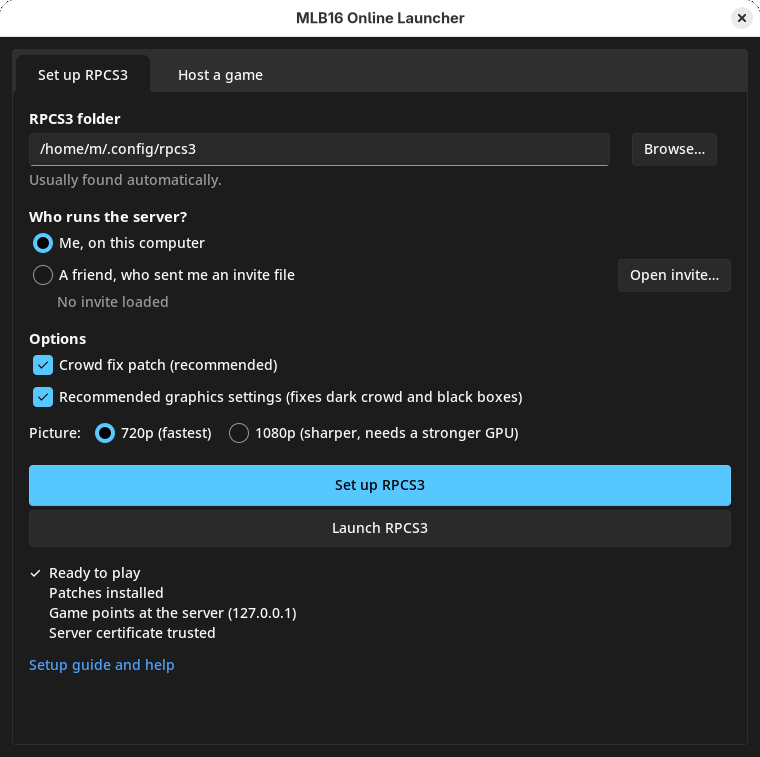
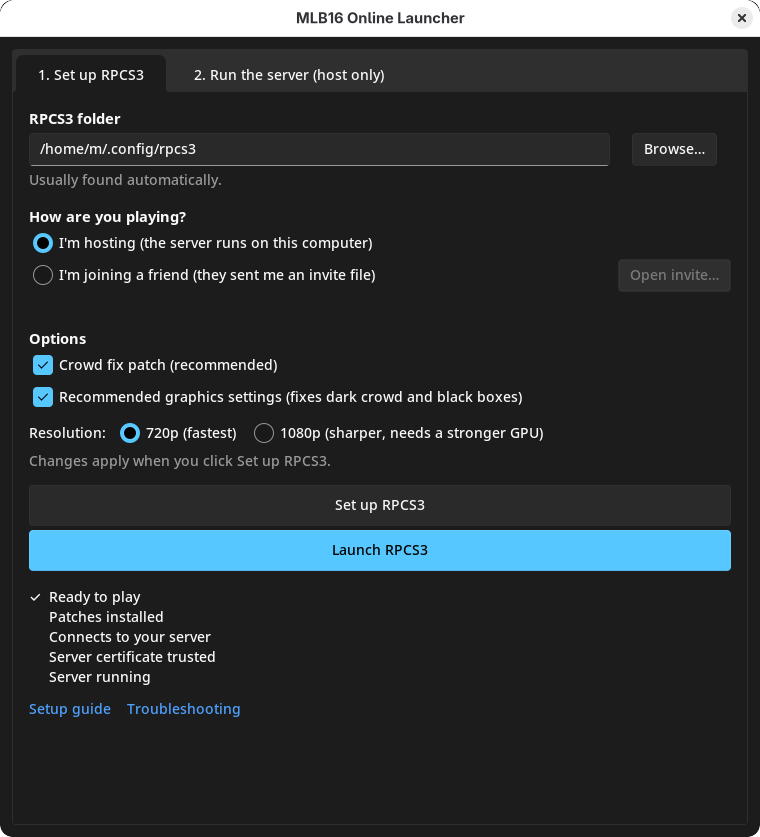
Launcher v0.3: clearer setup and hosting
- Setup: "How are you playing?" (hosting/joining), Open invite only when joining, Resolution, changes apply on Set up
- The host's checklist shows whether the server is running; Launch becomes the main button once set up
- Next steps after setup (Game Rooms, Quick Menu SELECT); Setup guide and Troubleshooting links; plainer errors
- Server tab: numbered steps, green Running indicator, "Where is your friend?" picker with a Tailscale hint
- Popup after saving an invite; confirm before quitting with the server running; Open logs folder link
- Friendlier activity log (Server ready, placeholder, port-443 notice hidden)
- README steps and screenshots updated

diff --git a/app/mlb16_online.py b/app/mlb16_online.py
@@ -63,7 +63,9 @@ def friendly(line):
     try:
         d = json.loads(line)
     except ValueError:   # the server cuts long JSON lines short; anything else (errors, tracebacks) is shown
-        return None if line.startswith('{') else line.rstrip()
+        if line.startswith('listening on'):
+            return 'Server ready. Waiting for players…'
+        return None if line.startswith(('{', 'port 443 skipped')) else line.rstrip()   # optional telemetry
     if not isinstance(d, dict):
         return line.rstrip()
     e, t = d.get('event'), d.get('t', '')
@@ -78,6 +80,12 @@ def friendly(line):
                      'Has that player run setup with your invite?'),
     }.get(e)
     return f'{t}  {text}' if text else None
+
+
+def link(parent, text, url):
+    lbl = ttk.Label(parent, text=text, style='Link.TLabel', cursor='hand2')
+    lbl.bind('<Button-1>', lambda e: webbrowser.open(url))
+    return lbl
 
 
 class App(tk.Tk):
@@ -111,15 +119,16 @@ class App(tk.Tk):
         style = ttk.Style(self)
         style.configure('Hint.TLabel', foreground='#9a9a9a')   # fixed colours: "gray" differs between platforms
         style.configure('Link.TLabel', foreground='#4ea1ff')
+        style.configure('Running.TLabel', foreground='#3fb950')
         self.cfg = Settings()
         self.server = None
         self.lines = queue.Queue()
 
         nb = ttk.Notebook(self)
         nb.pack(fill='both', expand=True, padx=12, pady=12)
-        nb.add(self.setup_tab(nb), text='  Set up RPCS3  ')
-        nb.add(self.host_tab(nb), text='  Host a game  ')
-        nb.bind('<<NotebookTabChanged>>', lambda e: self.show_addresses())   # picks up Tailscale started later
+        nb.add(self.setup_tab(nb), text='  1. Set up RPCS3  ')
+        nb.add(self.host_tab(nb), text='  2. Run the server (host only)  ')
+        nb.bind('<<NotebookTabChanged>>', lambda e: (self.show_addresses(), self.refresh()))   # Tailscale started later
         self.protocol('WM_DELETE_WINDOW', self.quit_app)
         self.refresh()
         self.after(200, self.pump)
@@ -138,14 +147,15 @@ class App(tk.Tk):
         hint = ('The folder with rpcs3.exe.' if sys.platform == 'win32' else 'Usually found automatically.')
         ttk.Label(f, text=hint, style='Hint.TLabel').grid(row=2, column=0, columnspan=3, sticky='w')
 
-        ttk.Label(f, text='Who runs the server?', font=('', 11, 'bold')).grid(row=3, column=0, columnspan=3,
+        ttk.Label(f, text='How are you playing?', font=('', 11, 'bold')).grid(row=3, column=0, columnspan=3,
                                                                                 sticky='w', pady=(16, 0))
         self.mode = tk.StringVar(value=self.cfg['mode'])
-        ttk.Radiobutton(f, text='Me, on this computer', variable=self.mode, value='host',
+        ttk.Radiobutton(f, text="I'm hosting (the server runs on this computer)", variable=self.mode, value='host',
                         command=self.refresh).grid(row=4, column=0, columnspan=3, sticky='w', pady=2)
-        ttk.Radiobutton(f, text='A friend, who sent me an invite file', variable=self.mode, value='join',
+        ttk.Radiobutton(f, text="I'm joining a friend (they sent me an invite file)", variable=self.mode, value='join',
                         command=self.refresh).grid(row=5, column=0, columnspan=2, sticky='w', pady=2)
-        ttk.Button(f, text='Open invite…', command=self.open_invite).grid(row=5, column=2, padx=(8, 0))
+        self.invite_btn = ttk.Button(f, text='Open invite…', command=self.open_invite)
+        self.invite_btn.grid(row=5, column=2, padx=(8, 0))
         self.invite_label = ttk.Label(f, style='Hint.TLabel')
         self.invite_label.grid(row=6, column=0, columnspan=3, sticky='w', padx=(28, 0))
 
@@ -160,21 +170,24 @@ class App(tk.Tk):
         pic = ttk.Frame(f)
         pic.grid(row=10, column=0, columnspan=3, sticky='w', pady=(6, 0))
         self.picture = tk.StringVar(value=self.cfg['picture'])
-        ttk.Label(pic, text='Picture:').pack(side='left')
+        ttk.Label(pic, text='Resolution:').pack(side='left')
         ttk.Radiobutton(pic, text='720p (fastest)', variable=self.picture, value='720p').pack(side='left', padx=(10, 0))
         ttk.Radiobutton(pic, text='1080p (sharper, needs a stronger GPU)', variable=self.picture,
                         value='1080p').pack(side='left', padx=(10, 0))
+        ttk.Label(f, text='Changes apply when you click Set up RPCS3.', style='Hint.TLabel').grid(
+            row=11, column=0, columnspan=3, sticky='w', pady=(4, 0))
 
-        ttk.Button(f, text='Set up RPCS3', style='Accent.TButton', command=self.do_setup).grid(
-            row=11, column=0, columnspan=3, sticky='ew', pady=(18, 4), ipady=4)
-        ttk.Button(f, text='Launch RPCS3', command=self.launch_rpcs3).grid(
-            row=12, column=0, columnspan=3, sticky='ew', ipady=2)
+        self.setup_btn = ttk.Button(f, text='Set up RPCS3', command=self.do_setup)
+        self.setup_btn.grid(row=12, column=0, columnspan=3, sticky='ew', pady=(14, 4), ipady=4)
+        self.launch_btn = ttk.Button(f, text='Launch RPCS3', command=self.launch_rpcs3)
+        self.launch_btn.grid(row=13, column=0, columnspan=3, sticky='ew', ipady=4)
 
         self.status = ttk.Label(f, justify='left')
-        self.status.grid(row=13, column=0, columnspan=3, sticky='w', pady=(16, 0))
-        link = ttk.Label(f, text='Setup guide and help', style='Link.TLabel', cursor='hand2')
-        link.grid(row=14, column=0, columnspan=3, sticky='w', pady=(12, 0))
-        link.bind('<Button-1>', lambda e: webbrowser.open(REPO))
+        self.status.grid(row=14, column=0, columnspan=3, sticky='w', pady=(16, 0))
+        links = ttk.Frame(f)
+        links.grid(row=15, column=0, columnspan=3, sticky='w', pady=(12, 0))
+        link(links, 'Setup guide', REPO + '#setup').pack(side='left')
+        link(links, 'Troubleshooting', REPO + '#troubleshooting').pack(side='left', padx=(16, 0))
         return f
 
     def pick_rpcs3(self):
@@ -255,97 +268,128 @@ class App(tk.Tk):
             s.install_game_config(r, ip, graphics=self.graphics.get(), picture=self.picture.get())
             s.install_ca(r, ca)
         except OSError as e:
-            messagebox.showerror('Setup failed', f'{e}\n\nIs RPCS3 closed, and is this the right folder?')
+            messagebox.showerror('Setup failed', "Couldn't change the files in your RPCS3 folder. Make sure RPCS3 is "
+                                 f'closed and the folder is right, then try again.\n\nDetails: {e}')
             return
         self.cfg.update(rpcs3_dir=str(r.root), mode=self.mode.get(), crowd_fix=self.crowd.get(),
                         graphics=self.graphics.get(), picture=self.picture.get())
         self.cfg.save()
         self.refresh()
-        messagebox.showinfo('Done', 'RPCS3 is set up. Start the game, then go to Online → Game Rooms.'
-                            + ('\n\nStart the server in the "Host a game" tab first.' if ip == '127.0.0.1' else ''))
+        messagebox.showinfo('Done', 'RPCS3 is set up.\n\n'
+                            + ('Next: start the server in tab 2, then ' if ip == '127.0.0.1' else 'Next: ')
+                            + 'click Launch RPCS3, boot the game and go to Online → Game Rooms → Revival Room.\n\n'
+                            'To accept a challenge, open the Quick Menu (SELECT).')
+
+    def server_running(self):
+        return bool(self.server and self.server.poll() is None)
 
     def refresh(self):
-        if self.cfg.get('invite_host'):
+        hosting = self.mode.get() == 'host'
+        self.invite_btn.config(state='disabled' if hosting else 'normal')
+        if hosting:
+            self.invite_label.config(text='')
+        elif self.cfg.get('invite_host'):
             self.invite_label.config(text=f'Invite loaded: server at {self.cfg["invite_host"]}')
         else:
             self.invite_label.config(text='No invite loaded')
+        ready = False
         r = s.Rpcs3(self.rpcs3_dir.get().strip()) if self.rpcs3_dir.get().strip() else None
         if not r or r.problem():
-            self.status.config(text='Pick your RPCS3 folder.' if not r else r.problem())
-            return
-        want_ip, want_ca = self.target()
-        ca = s.installed_ca(r)
-        server = s.game_config_server(r)
-        rows = [(s.patches_status(r), 'Patches installed', 'Patches'),
-                (server is not None and server == want_ip, f'Game points at the server ({server})', 'Server address'),
-                (ca is not None and isinstance(want_ca, bytes) and ca == want_ca, 'Server certificate trusted',
-                 'Server certificate')]
-        if not any(ok for ok, _, _ in rows):
-            text = 'Not set up yet: click "Set up RPCS3".'
-        elif all(ok for ok, _, _ in rows):
-            text = '✓  Ready to play\n' + '\n'.join('     ' + done for _, done, _ in rows)
-        else:   # e.g. a new invite was opened: say what the next Set up will change
-            text = 'Click "Set up RPCS3" to finish:\n' + '\n'.join(
-                ('✓  ' + done) if ok else ('○  ' + todo + ': needs setup') for ok, done, todo in rows)
+            text = 'Pick your RPCS3 folder.' if not r else r.problem()
+        else:
+            want_ip, want_ca = self.target()
+            ca = s.installed_ca(r)
+            server = s.game_config_server(r)
+            where = 'your server' if server == '127.0.0.1' else server
+            rows = [(s.patches_status(r), 'Patches installed', 'Patches'),
+                    (server is not None and server == want_ip, f'Connects to {where}', 'Server address'),
+                    (ca is not None and isinstance(want_ca, bytes) and ca == want_ca, 'Server certificate trusted',
+                     'Server certificate')]
+            if not any(ok for ok, _, _ in rows):
+                text = 'Not set up yet: click "Set up RPCS3".'
+            elif all(ok for ok, _, _ in rows):
+                ready = True
+                text = '✓  Ready to play\n' + '\n'.join('     ' + done for _, done, _ in rows)
+                if hosting:   # the most common first-session failure: everything set up but no server
+                    text += ('\n     Server running' if self.server_running() else
+                             '\n○  Server not running: start it in tab 2 before you launch the game')
+            else:   # e.g. a new invite was opened: say what the next Set up will change
+                text = 'Click "Set up RPCS3" to finish:\n' + '\n'.join(
+                    ('✓  ' + done) if ok else ('○  ' + todo + ': needs setup') for ok, done, todo in rows)
         self.status.config(text=text)
+        # point at the next step: Set up until it's done, then Launch
+        self.setup_btn.config(style='TButton' if ready else 'Accent.TButton')
+        self.launch_btn.config(style='Accent.TButton' if ready else 'TButton')
 
     # ------------------------------------------------------------ host tab
 
     def host_tab(self, nb):
         f = ttk.Frame(nb, padding=16)
         f.columnconfigure(0, weight=1)
-        f.rowconfigure(6, weight=1)
+        f.rowconfigure(9, weight=1)
+        h = ('', 11, 'bold')
+        ttk.Label(f, text='1. Start the server', font=h).grid(row=0, column=0, sticky='w')
         bar = ttk.Frame(f)
-        bar.grid(row=0, column=0, sticky='ew')
+        bar.grid(row=1, column=0, sticky='ew', pady=(6, 0))
         self.start_btn = ttk.Button(bar, text='Start server', style='Accent.TButton', command=self.start_server)
         self.start_btn.pack(side='left')
         self.stop_btn = ttk.Button(bar, text='Stop', command=self.stop_server, state='disabled')
         self.stop_btn.pack(side='left', padx=8)
-        self.server_state = ttk.Label(bar, text='Stopped')
+        self.server_state = ttk.Label(bar, text='○  Stopped', style='Hint.TLabel')
         self.server_state.pack(side='left', padx=8)
 
-        ttk.Label(f, text='Your addresses', font=('', 11, 'bold')).grid(row=1, column=0, sticky='w', pady=(16, 0))
-        self.addr = ttk.Label(f, justify='left')
-        self.addr.grid(row=2, column=0, sticky='w')
+        ttk.Label(f, text='2. Send your friend an invite', font=h).grid(row=2, column=0, sticky='w', pady=(18, 0))
+        ttk.Label(f, text='Where is your friend?').grid(row=3, column=0, sticky='w', pady=(6, 0))
+        self.where = tk.StringVar()
+        self.where_btns = ttk.Frame(f)
+        self.where_btns.grid(row=4, column=0, sticky='w')
         inv = ttk.Frame(f)
-        inv.grid(row=3, column=0, sticky='w', pady=(8, 0))
-        self.invite_ip = ttk.Combobox(inv, width=28, state='readonly')
-        self.invite_ip.pack(side='left')
-        ttk.Button(inv, text='Save invite file…', command=self.save_invite).pack(side='left', padx=8)
-        ttk.Label(f, text='Send the invite file to your friend. It holds your address and your server certificate '
-                          '(never your private keys).', style='Hint.TLabel', wraplength=580, justify='left').grid(
-            row=4, column=0, sticky='w', pady=(4, 0))
+        inv.grid(row=5, column=0, sticky='w', pady=(8, 0))
+        ttk.Button(inv, text='Save invite file…', command=self.save_invite).pack(side='left')
+        self.where_hint = ttk.Label(f, style='Hint.TLabel', wraplength=580, justify='left')
+        self.where_hint.grid(row=6, column=0, sticky='w', pady=(4, 0))
+        ttk.Label(f, text='The invite holds your address and your server certificate (never your private keys).',
+                  style='Hint.TLabel', wraplength=580, justify='left').grid(row=7, column=0, sticky='w')
 
-        ttk.Label(f, text='Server activity', font=('', 11, 'bold')).grid(row=5, column=0, sticky='w', pady=(16, 0))
-        self.log = tk.Text(f, height=12, wrap='word', state='disabled', relief='flat', borderwidth=0,
+        ttk.Label(f, text='3. Server activity', font=h).grid(row=8, column=0, sticky='w', pady=(18, 0))
+        self.log = tk.Text(f, height=10, wrap='word', state='disabled', relief='flat', borderwidth=0,
                            background='#0b0b0b', foreground='#d8d8d8', padx=10, pady=8)   # terminal-like
-        self.log.grid(row=6, column=0, sticky='nsew', pady=(4, 0))
-        ttk.Label(f, text=f'If your firewall asks, allow network access. Logs and certificates: {s.data_dir()}',
-                  style='Hint.TLabel', wraplength=580, justify='left').grid(row=7, column=0, sticky='w', pady=(8, 0))
+        self.log.grid(row=9, column=0, sticky='nsew', pady=(4, 0))
+        self.log.tag_configure('placeholder', foreground='#6e6e6e')
+        self.write_log('Nothing yet. Start the server and activity shows up here.', 'placeholder')
+        foot = ttk.Frame(f)
+        foot.grid(row=10, column=0, sticky='ew', pady=(8, 0))
+        ttk.Label(foot, text='If your firewall asks, allow network access.', style='Hint.TLabel').pack(side='left')
+        link(foot, 'Open logs folder', s.data_dir().as_uri()).pack(side='right')
         self.show_addresses()
         return f
 
     def show_addresses(self):
         lan, ts = s.lan_ip(), s.tailscale_ip()
-        rows, choices = [], []
-        if ts:
-            rows.append(f'Tailscale (over the internet): {ts}')
-            choices.append(f'{ts}  (Tailscale)')
-        if lan:
-            rows.append(f'Home network: {lan}')
-            choices.append(f'{lan}  (home network)')
-        if not ts:
-            rows.append('Tailscale not found. Install it to play with friends outside your home network.')
-        self.addr.config(text='\n'.join(rows))
-        self.invite_ip.config(values=choices)
-        if choices:
-            self.invite_ip.current(0)
+        self.ts_ip = ts
+        for w in self.where_btns.winfo_children():
+            w.destroy()
+        choices = [(lan, f'Same home network ({lan})' if lan else 'Same home network (no network found)'),
+                   (ts, f'Somewhere else, over Tailscale ({ts})' if ts else
+                    'Somewhere else: install Tailscale first (see the Setup guide)')]
+        for i, (ip, text) in enumerate(choices):
+            ttk.Radiobutton(self.where_btns, text=text, variable=self.where, value=ip or f'none{i}',   # unselectable
+                            state='normal' if ip else 'disabled',
+                            command=self.where_changed).pack(anchor='w', pady=1)
+        if self.where.get() not in (lan, ts) or not self.where.get():
+            self.where.set(ts or lan or '')
+        self.where_changed()
+
+    def where_changed(self):
+        ts = self.where.get() and self.where.get() == self.ts_ip
+        self.where_hint.config(text='Your friend needs Tailscale too, in your tailnet: invite them, or share this '
+                                    'computer with them from the Tailscale admin console.' if ts else '')
 
     def save_invite(self):
-        if not self.invite_ip.get():
-            messagebox.showerror('Invite', 'No network address found.')
+        ip = self.where.get()
+        if not ip:
+            messagebox.showerror('Invite', 'No network address found. Are you connected to a network?')
             return
-        ip = self.invite_ip.get().split()[0]
         p = filedialog.asksaveasfilename(title='Save invite', defaultextension='.mlb16invite',
                                          initialfile='mlb16-invite.mlb16invite',
                                          filetypes=[('MLB16 invite', '*.mlb16invite')])
@@ -353,6 +397,8 @@ class App(tk.Tk):
             ca = (s.ensure_host_certs() / 'ca.pem').read_bytes()
             Path(p).write_text(s.make_invite(ip, ca), encoding='utf-8')
             self.write_log(f'invite saved for {ip}: {p}')
+            messagebox.showinfo('Invite saved', f'Saved to:\n{p}\n\nSend this file to your friend (Discord, email, '
+                                'anything). They open it in their launcher with "Open invite…", then click Set up RPCS3.')
 
     def start_server(self):
         if self.server and self.server.poll() is None:
@@ -365,8 +411,9 @@ class App(tk.Tk):
         threading.Thread(target=self.read_server, args=(self.server,), daemon=True).start()
         self.start_btn.config(state='disabled')
         self.stop_btn.config(state='normal')
-        self.server_state.config(text='Running')
-        self.write_log('server starting…')
+        self.server_state.config(text='●  Running', style='Running.TLabel')
+        self.write_log('Server starting…')
+        self.refresh()
 
     def read_server(self, proc):
         for line in proc.stdout:
@@ -384,11 +431,13 @@ class App(tk.Tk):
                 line = self.lines.get_nowait()
                 if line is None:
                     code = self.server.wait() if self.server else 0
-                    self.write_log('server stopped' if self.stopping else
-                                   f'server stopped unexpectedly (exit code {code}). Is another server already running?')
+                    self.write_log('Server stopped.' if self.stopping else
+                                   'The server stopped unexpectedly. Usually another copy is already running (another '
+                                   f'launcher window, or server.py): close it and click Start server. (exit code {code})')
                     self.start_btn.config(state='normal')
                     self.stop_btn.config(state='disabled')
-                    self.server_state.config(text='Stopped')
+                    self.server_state.config(text='○  Stopped', style='Hint.TLabel')
+                    self.refresh()
                     continue
                 text = friendly(line)
                 if text:
@@ -397,13 +446,17 @@ class App(tk.Tk):
             pass
         self.after(200, self.pump)
 
-    def write_log(self, text):
+    def write_log(self, text, tag=None):
         self.log.config(state='normal')
-        self.log.insert('end', text + '\n')
+        self.log.delete(*(self.log.tag_ranges('placeholder') or ('end', 'end')))
+        self.log.insert('end', text + '\n', tag)
         self.log.see('end')
         self.log.config(state='disabled')
 
     def quit_app(self):
+        if self.server_running() and not messagebox.askokcancel(
+                'Quit', 'The server is running. Quitting stops it and ends any game in progress.'):
+            return
         self.stop_server()
         self.destroy()
 

diff --git a/README.md b/README.md
@@ -66,20 +66,21 @@ The launcher isn't signed, so the first launch needs one extra click:
 
 <table>
   <tr>
-    <td><img src="docs/images/app-setup.png" alt="The Set up RPCS3 tab: RPCS3 folder, who runs the server, options, Set up and Launch buttons, and a checklist"></td>
-    <td><img src="docs/images/app-host.png" alt="The Host a game tab: Start/Stop server, your addresses, Save invite file, and server activity"></td>
+    <td><img src="docs/images/app-setup.png" alt="Tab 1, Set up RPCS3: RPCS3 folder, hosting or joining, options, Set up and Launch buttons, and a checklist"></td>
+    <td><img src="docs/images/app-host.png" alt="Tab 2, Run the server: Start/Stop server, where your friend is, Save invite file, and server activity"></td>
   </tr>
 </table>
 
 **The host:**
-1. **Set up RPCS3** tab → "Me, on this computer" → **Set up RPCS3**.
-   Under **Picture**, 720p runs fastest; 1080p is sharper if your graphics card can handle it.
-2. **Host a game** tab → **Start server**. Allow network access if your firewall asks. Keep the launcher open while you
+1. **Set up RPCS3** tab → "I'm hosting" → **Set up RPCS3**.
+   Under **Resolution**, 720p runs fastest; 1080p is sharper if your graphics card can handle it.
+2. **Run the server** tab → **Start server**. Allow network access if your firewall asks. Keep the launcher open while you
    play: closing it stops the server.
 3. **Save invite file…** and send it to your friend (Discord, email, anything: it holds your address and your
-   public certificate, no secrets). Pick the Tailscale address if they're not on your home network (see below).
+   public certificate, no secrets). Under "Where is your friend?", pick Tailscale if they're not on your home network
+   (see below).
 
-**Your friend:** **Set up RPCS3** tab → "A friend, who sent me an invite file" → **Open invite…** → **Set up RPCS3**.
+**Your friend:** **Set up RPCS3** tab → "I'm joining a friend" → **Open invite…** → **Set up RPCS3**.
 
 **Then both of you:** **Launch RPCS3** → boot the game → **Online → Game Rooms** → pick the **Revival Room**. Select your friend,
 choose **Challenge**, and they accept from the **Quick Menu** (SELECT). Your computer may ask whether RPCS3 can use
@@ -96,7 +97,7 @@ port forwarding. Tested: host on home Wi-Fi, other player on a phone hotspot.
    click **⋯** next to your computer → **Share…**, and send the invite link to your friend. They open it and accept.
    Your computer then shows up in their Tailscale. Sharing gives access to that one computer only, not your network,
    and you can stop sharing from the same menu.
-3. **The host** opens the **Host a game** tab (Tailscale has to be running), picks the **Tailscale** address,
+3. **The host** opens the **Run the server** tab (Tailscale has to be running), picks **over Tailscale**,
    saves the invite file and sends it. Your friend opens it in the launcher and clicks **Set up RPCS3**.
 
 **Does Tailscale slow down Discord or the game?** No. Tailscale only carries traffic sent to the other computer's
@@ -127,7 +128,7 @@ never starts, make sure UPnP is on in both routers.
   matches in testing), and keep your RPCS3 log: it says what went wrong.
 - **Something else:** before restarting anything, save the RPCS3 log (`RPCS3.log`: in the RPCS3 folder on Windows,
   `~/Library/Caches/rpcs3` on macOS, `~/.cache/rpcs3` on Linux) and the host's server log (`requests.jsonl` in the
-  folder shown at the bottom of the **Host a game** tab), then open an issue.
+  folder that **Open logs folder** opens, in the **Run the server** tab), then open an issue.
 
 ## Safety and security
 
